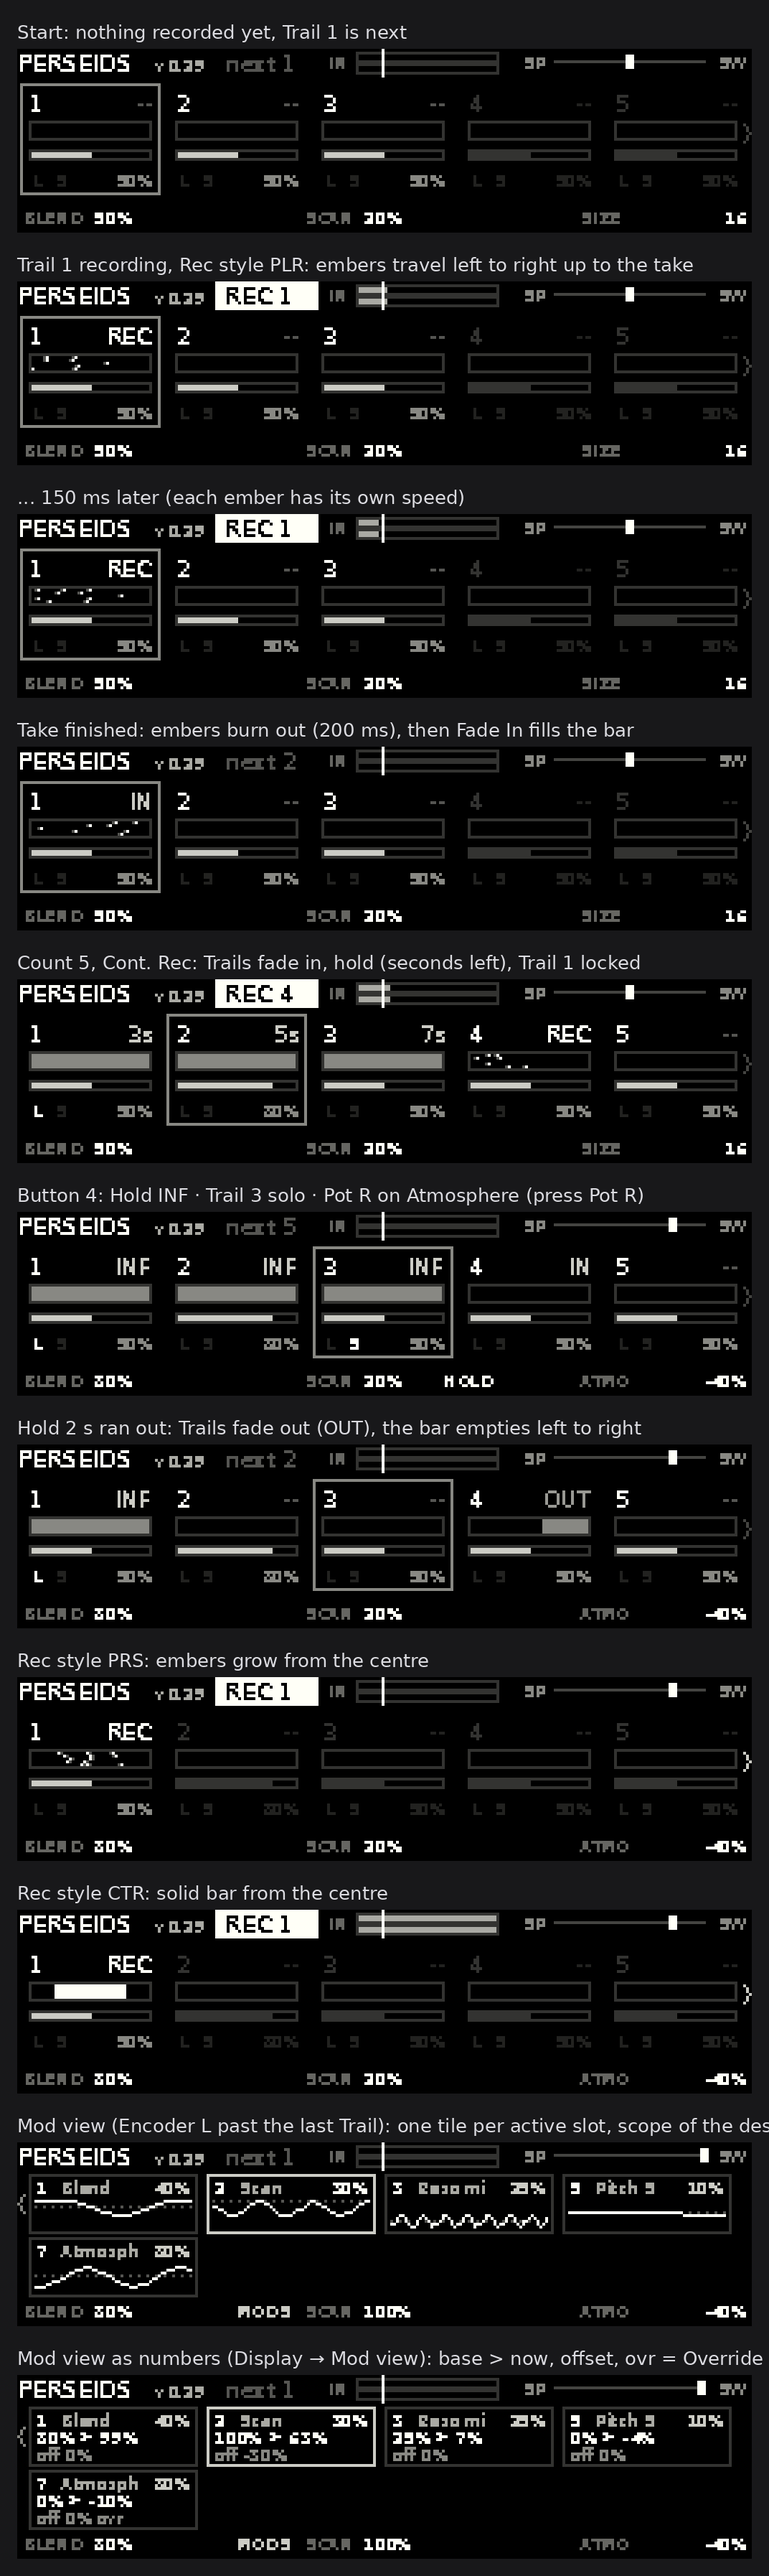
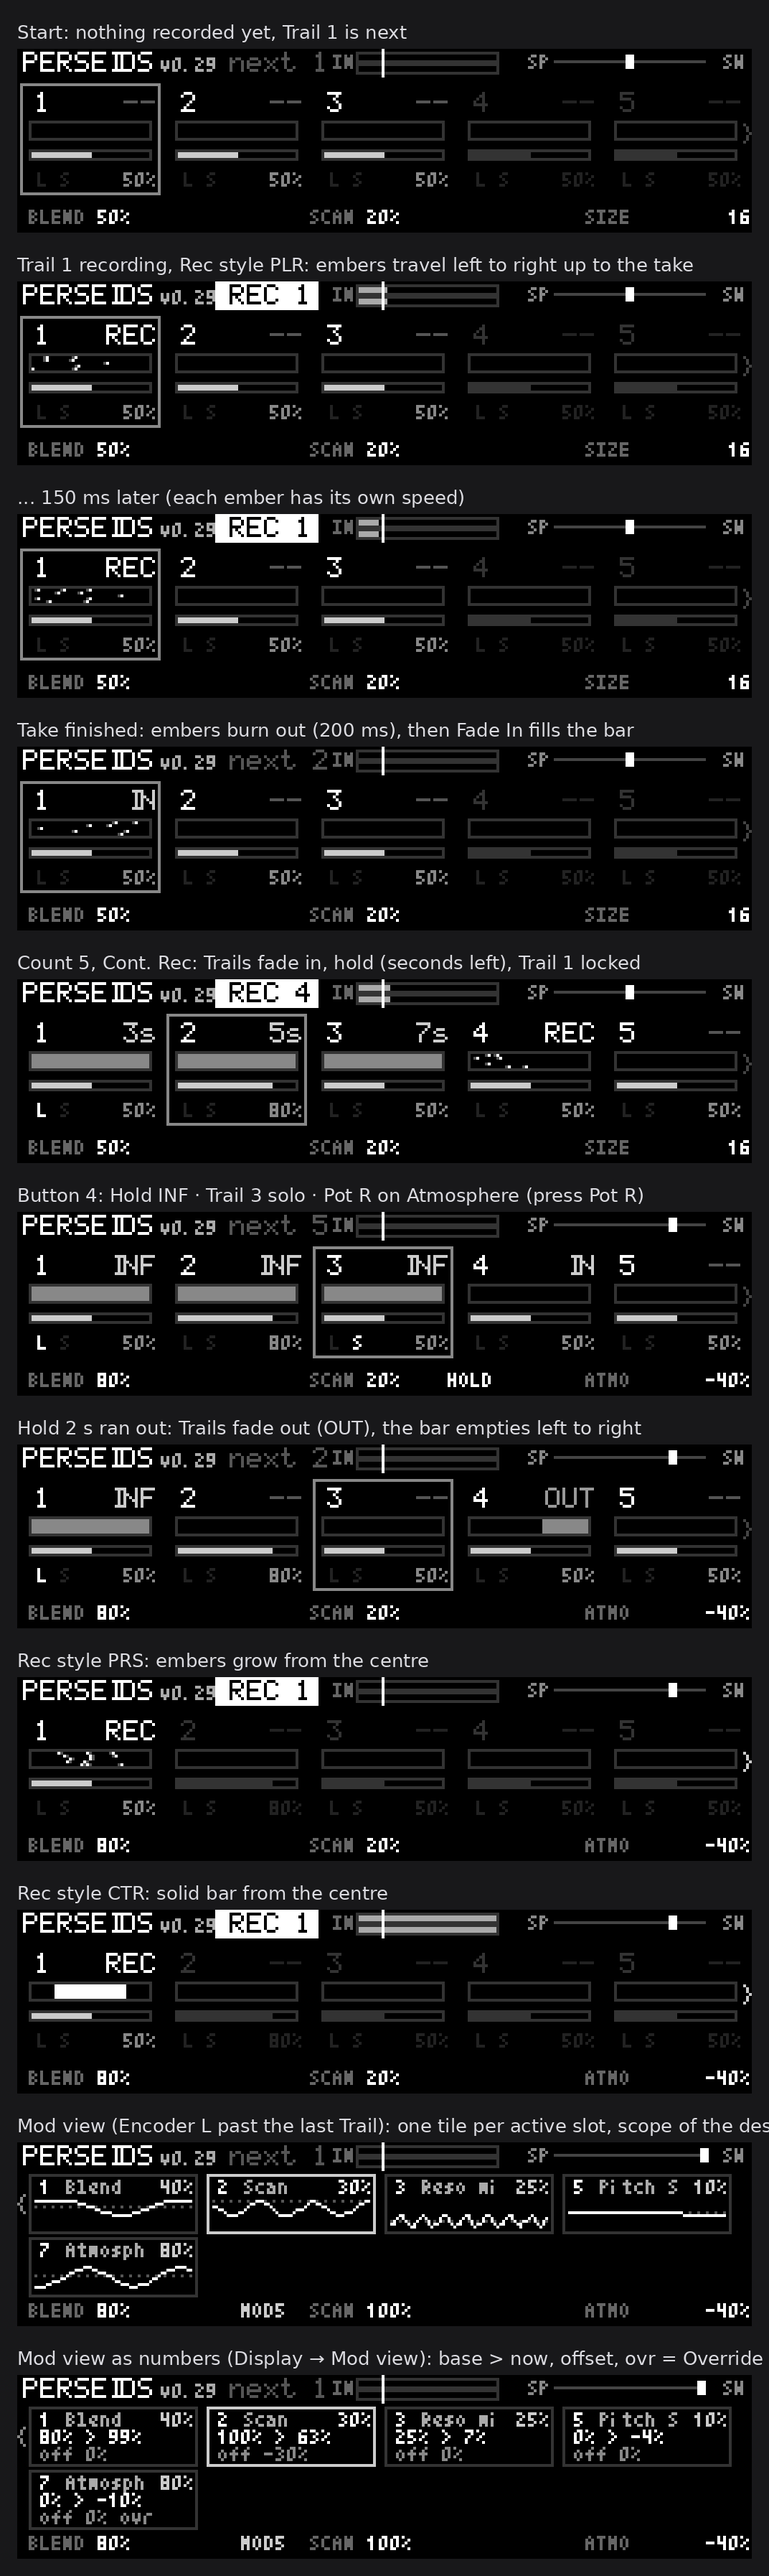
NT docs — handbook screens pixel-exact with nt_emu fonts and raster code 20261011
Claude-Session: https://claude.ai/code/session_01Em1K8uvjSW18Q1oLi7AzEk

diff --git a/nt/docs/perseids-nt-anleitung.html b/nt/docs/perseids-nt-anleitung.html
@@ -205,9 +205,10 @@ footer{font-size:13px; color:var(--muted); border-top:1px solid var(--line); pad
 <article class="patch-card" id="display">
   <div class="ph"><div class="num">05</div><div class="ph-main"><h2>Display lesen</h2></div></div>
   <div class="pb">
[2 lines of base64/hex data omitted]
+  <p class="note" style="font-size:.9em;opacity:.8">Alle Display-Bilder in diesem Handbuch sind Pixel für Pixel so erzeugt, wie nt_emu sie zeichnet (dieselben Schriften, dieselbe Linien- und Flächenlogik, 16 Graustufen), und entsprechen damit dem NT-Display. Gezeigt ist die NT-Fassung; in nt_emu steht in der Fußzeile vor jedem Poti-Ziel noch die Tastenziffer (<code>1 BLEND</code>, <code>2 SCAN</code>, <code>2 SIZE</code>).</p>
   <ul class="lst">
-    <li><b>Kopfzeile:</b> neben „PERSEIDS“ die Version (z. B. <code>v0.28</code>), daran erkennst du, welche Fassung geladen ist. <code>REC n</code> hell, solange aufgenommen wird, sonst grau <code>next n</code> (wohin die nächste Aufnahme geht). Daneben das Pegelmeter L/R mit der Threshold-Marke, rechts die Blend-Stellung zwischen SP und SW.</li>
+    <li><b>Kopfzeile:</b> neben „PERSEIDS“ die Version (z. B. <code>v0.29</code>), daran erkennst du, welche Fassung geladen ist. <code>REC n</code> hell, solange aufgenommen wird, sonst grau <code>next n</code> (wohin die nächste Aufnahme geht). Daneben das Pegelmeter L/R mit der Threshold-Marke, rechts die Blend-Stellung zwischen SP und SW.</li>
     <li><b>Fünf Spalten</b>, eine pro Trail. Oben Nummer und Zustand: <code>REC</code>, <code>IN</code> (Fade in), Sekunden bis zum Ausblenden, <code>INF</code> (unendlich oder gelockt), <code>OUT</code> (Fade out), <code>--</code> leer.</li>
     <li>Darunter der <b>Lebensbalken</b> (siehe unten) und der <b>Level-Balken</b>, ganz unten <code>L</code> und <code>S</code> (hell = Lock bzw. Solo an) und der Level in Prozent.</li>
     <li>Trails jenseits von <i>Count</i> sind dunkel.</li>
@@ -221,7 +222,7 @@ footer{font-size:13px; color:var(--muted); border-top:1px solid var(--line); pad
   <tr><td>Fade in</td><td>der Balken füllt sich von links</td></tr>
   <tr><td>Hold</td><td>voller Balken</td></tr>
   <tr><td>Fade out</td><td>der Balken leert sich von links</td></tr></table></div>
[2 lines of base64/hex data omitted]
   <p>Die Funken sind voll hell wie am Modul. Das NT-Display hat 16 Helligkeitsstufen; jeder Funke zieht deshalb zusätzlich einen schwachen Punkt hinter sich her. Ist die Abstufung auf deinem Display kaum zu sehen, sieht es aus wie am Modul.</p>
   <h3 id="rec-style">Rec style</h3>
   <p>Parameterseite <i>Display</i>, wie Settings → REC am Modul:</p>
@@ -229,7 +230,7 @@ footer{font-size:13px; color:var(--muted); border-top:1px solid var(--line); pad
   <tr><td>PLR (Standard)</td><td>Funken laufen von links nach rechts bis zur Aufnahme-Front, in der Mitte am dichtesten</td></tr>
   <tr><td>PRS</td><td>Funken wachsen aus der Mitte nach außen</td></tr>
   <tr><td>CTR</td><td>voller Balken wächst aus der Mitte</td></tr></table></div>
[2 lines of base64/hex data omitted]
   <a class="backtop" href="#inhalt">↑ zum Inhalt</a></div>
 </article>
 
@@ -346,8 +347,8 @@ footer{font-size:13px; color:var(--muted); border-top:1px solid var(--line); pad
     <li><i>Mod view</i> (Seite Display) stellt auf <b>Numbers</b> um: eingestellter Wert &gt; aktueller Wert in den Einheiten des Parameters, darunter Offset und <code>ovr</code> bei Override.</li>
     <li>Solange die Mod-Ansicht offen ist, steht <i>Mod overview</i> als erste Seite im Menü, so öffnet das Menü dort (nt_emu beginnt immer auf der ersten Seite).</li>
   </ul>
[4 lines of base64/hex data omitted]
   <h3 id="nt-mapping">CV-Mapping des NT</h3>
   <p>Zusätzlich lässt sich im NT jeder Parameter auf CV oder MIDI legen, auch die Mod-Slots selbst (etwa <i>Mod 1 amount</i> per Fader). Das NT-Mapping verstellt den gespeicherten Wert direkt; die Mod-Slots wirken obendrauf.</p>
   <a class="backtop" href="#inhalt">↑ zum Inhalt</a></div>

diff --git a/nt/render/nt_raster.h b/nt/render/nt_raster.h
@@ -1,0 +1,199 @@
+// Pixel-exact NT screen for the renderer: draws into NT_screen exactly as
+// nt_emu does, so the screenshots in the guide are what nt_emu (and the NT)
+// shows. Text and shapes follow nt_emu's vcv-plugin/src/fonts_vcv.cpp and
+// vcv-plugin/src/api/NTApiWrapper.cpp (MIT, (c) 2026 Neal Sanche) with the
+// fonts from NT_EMU_PATH/fonts.
+#pragma once
+#include <algorithm>
+#include <cstdint>
+#include <cstdlib>
+
+#include "pixelmix_baseline.h"
+#include "selawik_aa.h"
+#include "tom_thumb_4x6.h"
+
+namespace nt_raster
+{
+constexpr int W = 256, H = 64;
+
+inline void Pixel(int x, int y, int c)
+{
+    if(x < 0 || x >= W || y < 0 || y >= H)
+        return;
+    const int i = y * 128 + x / 2;
+    c &= 0x0F;
+    NT_screen[i] = (x & 1) ? static_cast<uint8_t>((NT_screen[i] & 0xF0) | c)
+                           : static_cast<uint8_t>((NT_screen[i] & 0x0F) | (c << 4));
+}
+
+inline int OutCode(int x, int y)
+{
+    int code = 0;
+    if(x < 0)
+        code |= 1;
+    else if(x >= W)
+        code |= 2;
+    if(y < 0)
+        code |= 4;
+    else if(y >= H)
+        code |= 8;
+    return code;
+}
+
+inline bool Clip(int& x0, int& y0, int& x1, int& y1)
+{
+    int o0 = OutCode(x0, y0), o1 = OutCode(x1, y1);
+    while(true)
+    {
+        if(!(o0 | o1))
+            return true;
+        if(o0 & o1)
+            return false;
+        const int out = o1 > o0 ? o1 : o0;
+        int       x = 0, y = 0;
+        if(out & 8)
+        {
+            x = x0 + (x1 - x0) * (H - 1 - y0) / (y1 - y0);
+            y = H - 1;
+        }
+        else if(out & 4)
+        {
+            x = x0 + (x1 - x0) * (0 - y0) / (y1 - y0);
+            y = 0;
+        }
+        else if(out & 2)
+        {
+            y = y0 + (y1 - y0) * (W - 1 - x0) / (x1 - x0);
+            x = W - 1;
+        }
+        else if(out & 1)
+        {
+            y = y0 + (y1 - y0) * (0 - x0) / (x1 - x0);
+            x = 0;
+        }
+        if(out == o0)
+        {
+            x0 = x;
+            y0 = y;
+            o0 = OutCode(x0, y0);
+        }
+        else
+        {
+            x1 = x;
+            y1 = y;
+            o1 = OutCode(x1, y1);
+        }
+    }
+}
+
+inline void Line(int x0, int y0, int x1, int y1, int c)
+{
+    if(!Clip(x0, y0, x1, y1))
+        return;
+    const int dx = std::abs(x1 - x0), dy = std::abs(y1 - y0);
+    const int sx = x0 < x1 ? 1 : -1, sy = y0 < y1 ? 1 : -1;
+    int       err = dx - dy;
+    while(true)
+    {
+        Pixel(x0, y0, c);
+        if(x0 == x1 && y0 == y1)
+            break;
+        const int e2 = 2 * err;
+        if(e2 > -dy)
+        {
+            err -= dy;
+            x0 += sx;
+        }
+        if(e2 < dx)
+        {
+            err += dx;
+            y0 += sy;
+        }
+    }
+}
+
+inline void Shape(_NT_shape sh, int x0, int y0, int x1, int y1, int c)
+{
+    switch(sh)
+    {
+        case kNT_line: Line(x0, y0, x1, y1, c); break;
+        case kNT_box:
+            Line(x0, y0, x1, y0, c);
+            Line(x1, y0, x1, y1, c);
+            Line(x1, y1, x0, y1, c);
+            Line(x0, y1, x0, y0, c);
+            break;
+        case kNT_rectangle:
+        {
+            const int cx0 = std::max(0, std::min(x0, x1)), cy0 = std::max(0, std::min(y0, y1));
+            const int cx1 = std::min(W - 1, std::max(x0, x1)), cy1 = std::min(H - 1, std::max(y0, y1));
+            for(int y = cy0; y <= cy1; ++y)
+                Line(cx0, y, cx1, y, c);
+            break;
+        }
+        default: Pixel(x0, y0, c); break;
+    }
+}
+
+inline int CharWidth(char ch, _NT_textSize z)
+{
+    const int i = static_cast<unsigned char>(ch) - 32;
+    if(z == kNT_textTiny)
+        return 4;
+    if(i < 0 || i > 94)
+        return 0;
+    return z == kNT_textLarge ? fonts::selawik_aaWidths[i] : fonts::pixelmix_baselineWidths[i];
+}
+
+inline void Char(int x, int y, char ch, _NT_textSize z, int c)
+{
+    if(c < 0 || c > 15)
+        c = 15;
+    const int i = static_cast<unsigned char>(ch) - 32;
+    if(i < 0 || i > 94)
+        return;
+    if(z == kNT_textTiny)
+    {
+        const int top = y - 5;
+        for(int r = 0; r < 6; ++r)
+            for(int col = 0; col < 4; ++col)
+                if(fonts::tomThumb4x6Font[i][r] & (0x80 >> col))
+                    Pixel(x + col + 2, top + r, c); // nt_emu: +2 px left bearing
+    }
+    else if(z == kNT_textNormal)
+    {
+        const int top = y - 8;
+        for(int r = 0; r < fonts::PIXELMIX_BASELINE_HEIGHT; ++r)
+            for(int col = 0; col < 8; ++col)
+                if(fonts::pixelmix_baselineFont[i][r] & (0x80 >> col))
+                    Pixel(x + col, top + r, c);
+    }
+    else
+    {
+        constexpr int BW  = fonts::SELAWIK_AA_WIDTH;
+        const int     top = y - fonts::SELAWIK_AA_ASCENT;
+        for(int r = 0; r < fonts::SELAWIK_AA_HEIGHT; ++r)
+            for(int col = 0; col < BW; ++col)
+            {
+                const int g = fonts::selawik_aaFont[i][r * BW + col];
+                if(g > 0)
+                    Pixel(x + col, top + r, (g * c + 7) / 15);
+            }
+    }
+}
+
+inline void Text(int x, int y, const char* s, int c, _NT_textAlignment al, _NT_textSize z)
+{
+    if(!s || x < 0 || x >= W || y < -20 || y > 80)
+        return; // nt_emu draws nothing then
+    int w = 0;
+    for(const char* p = s; *p; ++p)
+        w += CharWidth(*p, z);
+    int x0 = al == kNT_textCentre ? x - w / 2 : (al == kNT_textRight ? x - w : x);
+    for(; *s; ++s)
+    {
+        Char(x0, y, *s, z, c);
+        x0 += CharWidth(*s, z);
+    }
+}
+} // namespace nt_raster

diff --git a/nt/render/render.py b/nt/render/render.py
@@ -1,36 +1,39 @@
-# Renders the draw log from ./render into PNGs. Fonts are approximations
-# (DejaVu), sizes and positions are the plug-in's own.
+# Turns the renderer's output into PNGs. Each frame carries NT_screen as
+# drawn with nt_emu's own fonts and line code (render/nt_raster.h), so the
+# pictures are pixel for pixel what nt_emu shows: 16 grey levels, white on black.
+#   python3 render.py frames.txt perseids-screens.png [screens-dir]
+import os
 import sys
 from PIL import Image, ImageDraw, ImageFont
+
 SC = 4
-font = ImageFont.truetype("/usr/share/fonts/truetype/dejavu/DejaVuSans.ttf", 8)
-tiny = ImageFont.truetype("/usr/share/fonts/truetype/dejavu/DejaVuSans.ttf", 6)
-cap  = ImageFont.truetype("/usr/share/fonts/truetype/dejavu/DejaVuSans.ttf", 26)
-def grey(c): v = int(c) * 17; return (v, v, int(v * 0.97))
-frames = []; cur = None
+cap = ImageFont.truetype("/usr/share/fonts/truetype/dejavu/DejaVuSans.ttf", 26)
+frames, cur = [], None
 for line in open(sys.argv[1], encoding="utf-8"):
-    p = line.rstrip("\n").split(" ", 6 if line.startswith("T") else 7)
-    if p[0] == "F":
-        cur = [line[2:].strip(), Image.new("RGB", (256, 64), (0, 0, 0))]; frames.append(cur); continue
-    img = cur[1]; d = ImageDraw.Draw(img); d.fontmode = "1"
-    if p[0] == "S":
-        sh, x0, y0, x1, y1, c = map(int, p[1:7])
-        if sh == 0: d.point([x0, y0], fill=grey(c))
-        elif sh == 1: d.line([x0, y0, x1, y1], fill=grey(c))
-        elif sh == 2: d.rectangle([x0, y0, x1, y1], outline=grey(c))
-        elif sh == 3: d.rectangle([x0, y0, x1, y1], fill=grey(c))
-    else:
-        x, y, c, al, sz = map(int, p[1:6]); s = p[6]
-        f = tiny if sz == 0 else font
-        w = d.textlength(s, font=f)
-        if al == 1: x -= w / 2
-        elif al == 2: x -= w
-        d.text((x, y), s, font=f, fill=grey(c), anchor="ls")
-W = 256 * SC; pad = 24; capH = 44
-sheet = Image.new("RGB", (W + 2 * pad, len(frames) * (64 * SC + capH + pad) + pad), (24, 24, 26))
+    if line.startswith("F "):
+        cur = [line[2:].strip(), []]
+        frames.append(cur)
+    elif line.startswith("P ") and cur:
+        cur[1].append(line[2:].strip())
+
+
+def screen(rows):
+    img = Image.new("L", (256, 64), 0)
+    img.putdata([int(ch, 16) * 17 for r in rows for ch in r])
+    return img.convert("RGB")
+
+
+imgs = [(t, screen(r)) for t, r in frames if len(r) == 64]
+if len(sys.argv) > 3:
+    os.makedirs(sys.argv[3], exist_ok=True)
+    for i, (t, img) in enumerate(imgs):
+        img.resize((256 * SC, 64 * SC), Image.NEAREST).save(os.path.join(sys.argv[3], "%02d.png" % i), optimize=True)
+W, pad, capH = 256 * SC, 24, 44
+sheet = Image.new("RGB", (W + 2 * pad, len(imgs) * (64 * SC + capH + pad) + pad), (24, 24, 26))
 y = pad
-for title, img in frames:
+for title, img in imgs:
     ImageDraw.Draw(sheet).text((pad, y + 30), title, font=cap, fill=(220, 220, 225), anchor="ls")
-    sheet.paste(img.resize((W, 64 * SC), Image.NEAREST), (pad, y + capH)); y += 64 * SC + capH + pad
+    sheet.paste(img.resize((W, 64 * SC), Image.NEAREST), (pad, y + capH))
+    y += 64 * SC + capH + pad
 sheet.save(sys.argv[2])
-print(len(frames), "screens")
+print(len(imgs), "screens")

diff --git a/nt/test/stubs.cpp b/nt/test/stubs.cpp
@@ -8,6 +8,9 @@
 
 #include "pixelmix_baseline.h"
 #include "selawik_aa.h"
+#ifdef RENDER_LOG
+#include "../render/nt_raster.h" // pixel-exact NT_screen like nt_emu
+#endif
 
 const _NT_globals NT_globals = {48000, 128, nullptr, 0, 0, 0};
 uint8_t           NT_screen[128 * 64];
@@ -62,6 +65,9 @@ void NT_drawText(int x, int y, const char* s, int c, _NT_textAlignment al, _NT_t
     ++g_draws;
     if(g_logDraw)
         printf("T %d %d %d %d %d %s\n", x, y, c, static_cast<int>(al), static_cast<int>(z), s);
+#ifdef RENDER_LOG
+    nt_raster::Text(x, y, s, c, al, z);
+#endif
     const int w   = textWidth(s, z);
     const int x0  = al == kNT_textCentre ? x - w / 2 : (al == kNT_textRight ? x - w : x);
     const int asc = z == kNT_textTiny ? 5 : (z == kNT_textLarge ? 18 : 8);
@@ -78,6 +84,9 @@ void NT_drawShapeI(_NT_shape sh, int x0, int y0, int x1, int y1, int c)
     ++g_draws;
     if(g_logDraw)
         printf("S %d %d %d %d %d %d\n", static_cast<int>(sh), x0, y0, x1, y1, c);
+#ifdef RENDER_LOG
+    nt_raster::Shape(sh, x0, y0, x1, y1, c);
+#endif
     if(sh == kNT_line) // lines may run in any direction
     {
         if(x1 < x0) std::swap(x0, x1);

diff --git a/nt/render/render.cpp b/nt/render/render.cpp
@@ -6,6 +6,7 @@
 #include "../test/stubs.cpp"
 
 #include <cmath>
+#include <cstring>
 #include <cstdio>
 #include <vector>
 
@@ -46,10 +47,24 @@ static void Run(float secs, bool sound)
     }
 }
 
+// One screen: the draw calls (for checks) and then NT_screen as nt_emu shows
+// it, 64 rows of 256 hex digits (one per pixel, 0–15).
 static void Frame(const char* title)
 {
     printf("F %s\n", title);
+    std::memset(NT_screen, 0, sizeof(NT_screen));
     draw(A);
+    for(int y = 0; y < 64; ++y)
+    {
+        char row[257];
+        for(int x = 0; x < 256; ++x)
+        {
+            const uint8_t b = NT_screen[y * 128 + x / 2];
+            row[x]          = "0123456789abcdef"[(x & 1) ? (b & 15) : (b >> 4)];
+        }
+        row[256] = 0;
+        printf("P %s\n", row);
+    }
 }
 
 int main()

diff --git a/nt/README.md b/nt/README.md
@@ -35,7 +35,7 @@ Display: Kopfzeile mit REC-Anzeige (bzw. dem nächsten Ziel-Trail), Eingangspege
 
 **Lebensbalken wie am Modul:** Während der Aufnahme ziehen Funken durch den Balken, portiert aus `DrawTrailLifeBar` / `DrawRecSparkleFill` der Firmware (gleicher Hash, gleiche Tempi, gleiche Dichte pro Pixel, 200 ms weiches Erscheinen bzw. Verglühen). Stil über *Rec style* auf der Seite *Display*, wie Settings → REC: **PLR** (Standard, Funken links → rechts bis zur Aufnahme-Front), **PRS** (aus der Mitte), **CTR** (voller Balken aus der Mitte). Danach füllt Fade In den Balken von links, Hold steht voll, Fade Out leert ihn von links. Die Funken sind wie am Modul voll hell; der NT hat 16 Graustufen, deshalb zieht jeder Funke zusätzlich einen schwachen Pixel (Stufe 5) hinter sich her. Sieht man die Abstufung kaum, sieht es aus wie am Modul.
 
-Bildschirm-Renderings: `render/perseids-screens.png` (Schriften angenähert, Positionen echt).
+Bildschirm-Renderings: `render/perseids-screens.png` und `render/screens/*.png`, pixelgenau mit den Schriften und dem Zeichencode von nt_emu (`render/nt_raster.h`).
 
 ## Parameter
 
